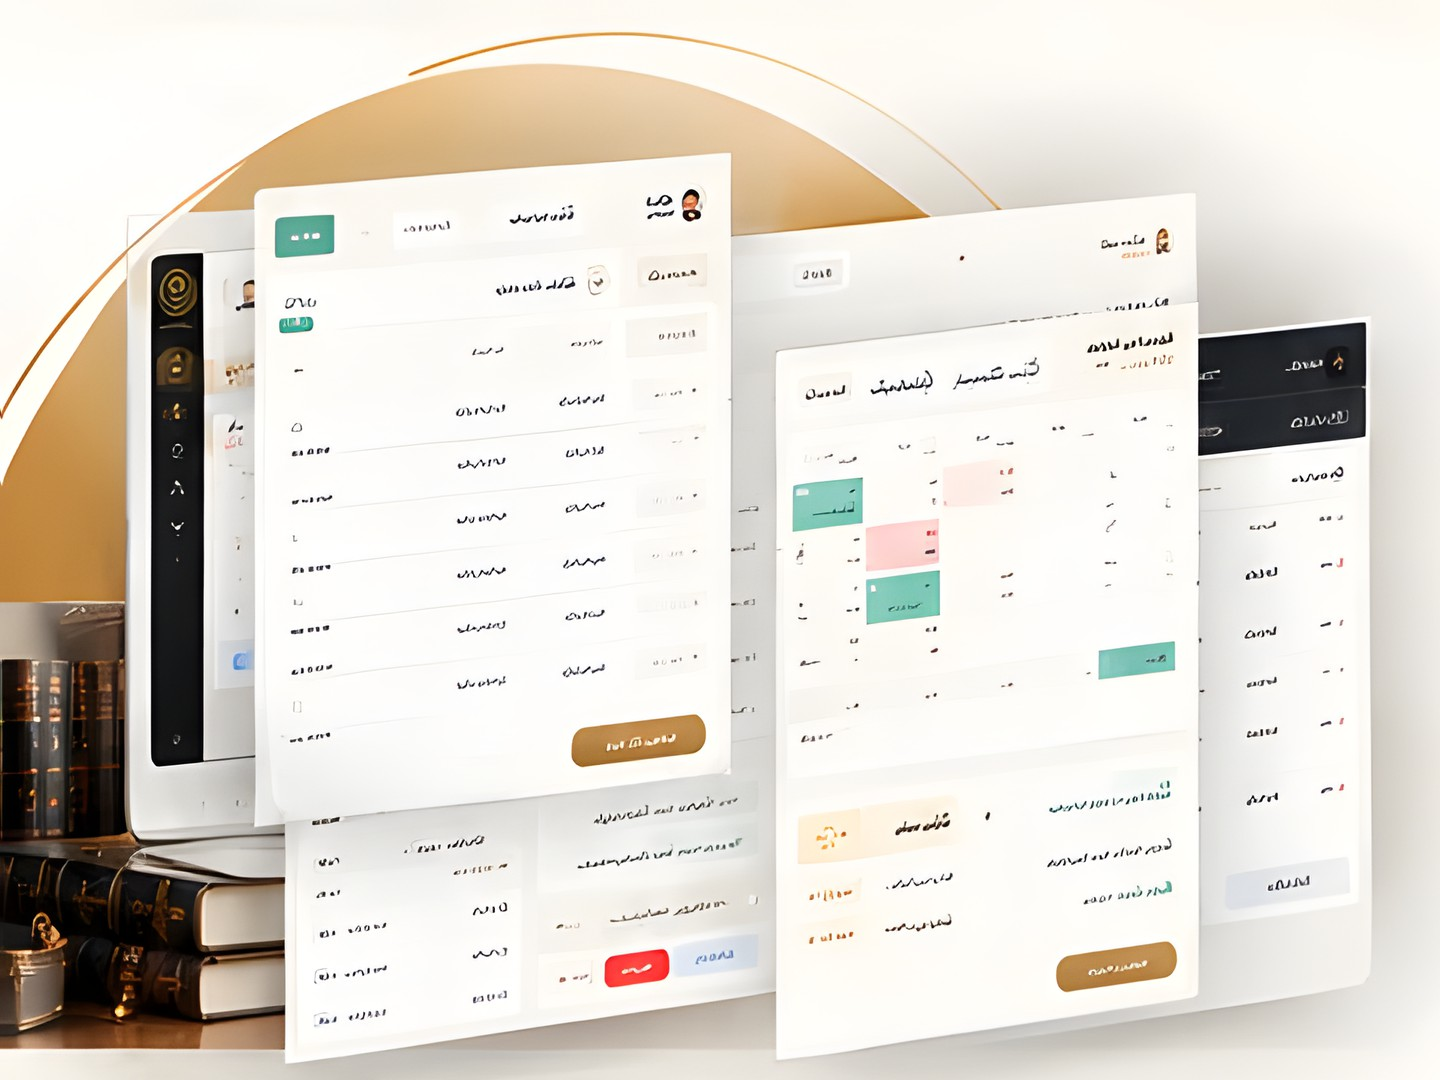
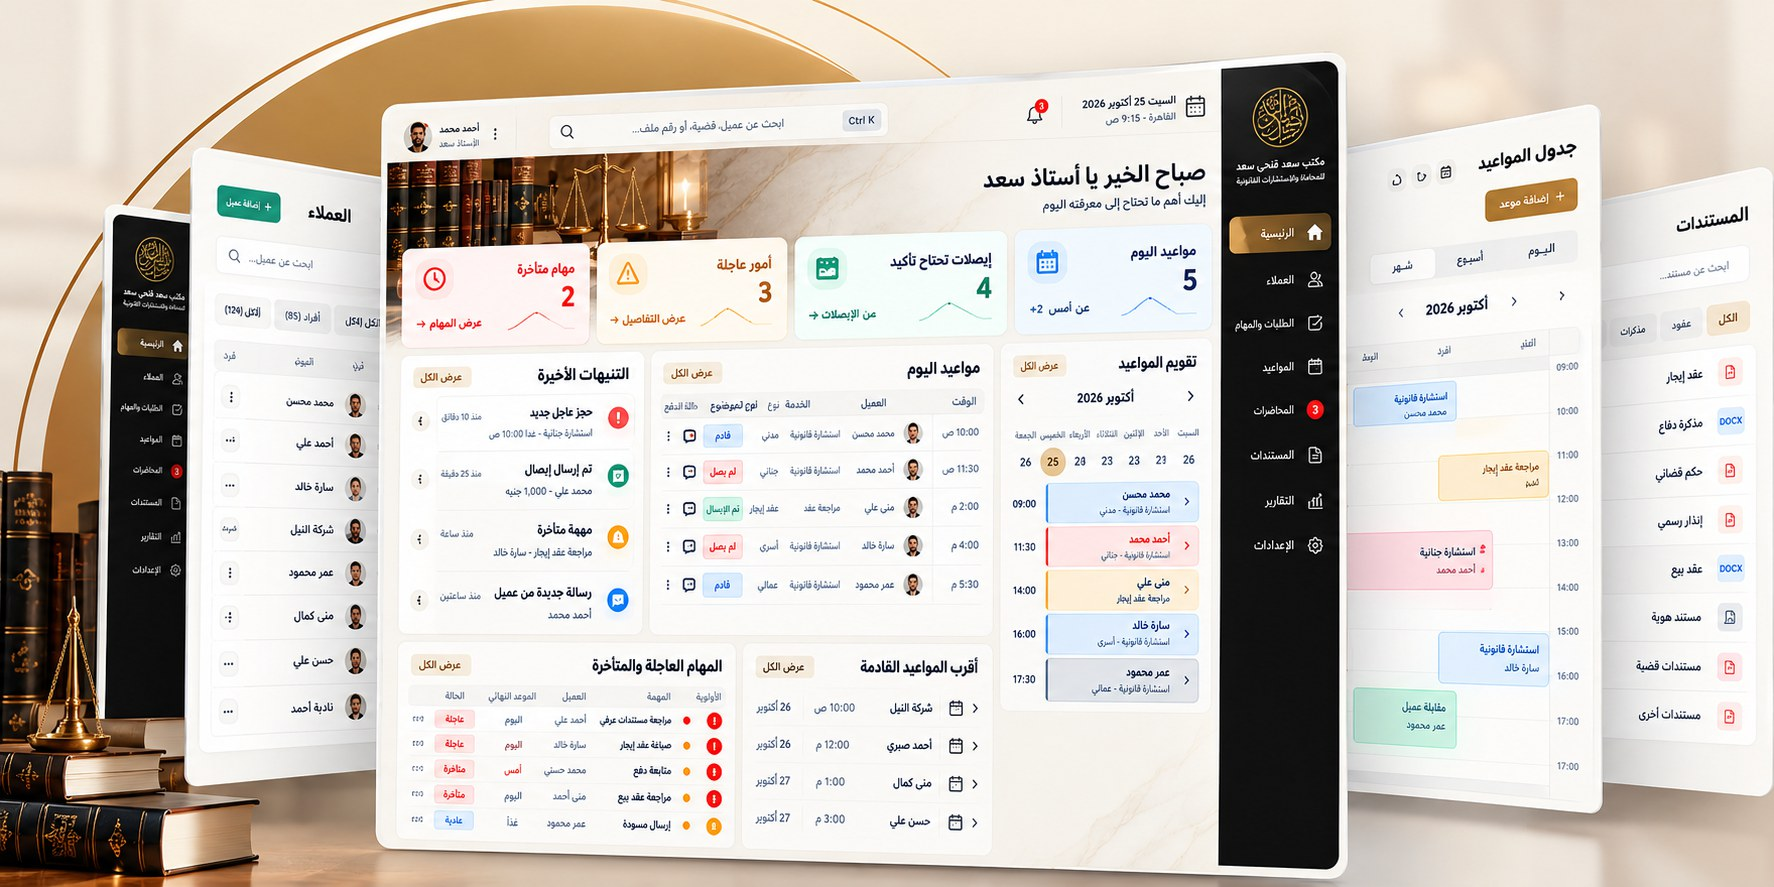
Landing page: a clear header that hides on scroll, the owner's screens picture, no side scrollbar
- The header is fixed over the page: clear on the hero at the top, frosted glass once the page moves; it slides
  away while scrolling down and comes back on the way up (never while its menu is open or the keyboard is on
  it). Without the script it stays frosted. The hero starts under it, its picture fading softly at the top.
- A link in the small screens' menu closes the menu.
- «مميزات النظام»: the owner's new screens picture (1774x887), whole, on the left from the window's edge,
  fading into the cream on its other sides.
- No scrollbar on the side (the owner's call); the page still scrolls by wheel, touch and keys.

diff --git a/web/public/landing/landing.css b/web/public/landing/landing.css
@@ -23,10 +23,13 @@
   --dark: #17140f;
   --shadow: 0 1px 2px rgb(30 26 20 / 0.04), 0 12px 30px rgb(120 92 50 / 0.10);
   --radius: 16px;
+  --top-h: 84px;
 }
 
 * { box-sizing: border-box; }
-html { scroll-behavior: smooth; scroll-padding-top: 90px; }
+/* no scrollbar on the side (the owner's call, 2026-10-30): the page still scrolls by wheel, touch and keys */
+html { scroll-behavior: smooth; scroll-padding-top: 90px; scrollbar-width: none; }
+html::-webkit-scrollbar { display: none; }
 body { margin: 0; overflow-x: clip; background: var(--page); color: var(--ink); font: 400 16px/1.75 "Cairo", system-ui, sans-serif; -webkit-font-smoothing: antialiased; }
 img, svg { display: block; max-width: 100%; }
 a { color: inherit; text-decoration: none; }
@@ -56,8 +59,18 @@ svg .fill { fill: currentColor; stroke: none; }
 .btn-line:hover { background: var(--gold-tint); }
 
 /* ---------- header ---------- */
-.top { position: sticky; top: 0; z-index: 20; background: rgb(250 247 242 / .94); backdrop-filter: blur(10px); border-bottom: 1px solid var(--line); }
-.top-row { display: flex; align-items: center; gap: 24px; min-height: 84px; }
+/* Fixed over the page: clear on the hero at the top, frosted glass once the page moves (landing.js sets .at-top and
+   .hide); it slides away while scrolling down and comes back on the way up. Without the script: frosted, always. */
+.top {
+  position: fixed; top: 0; left: 0; right: 0; z-index: 20;
+  background: rgb(250 247 242 / .72); -webkit-backdrop-filter: blur(14px) saturate(1.4); backdrop-filter: blur(14px) saturate(1.4);
+  border-bottom: 1px solid rgb(236 228 214 / .85); box-shadow: 0 8px 24px rgb(60 45 20 / .06);
+}
+/* moves only after the first frame, so the page never opens on a fading header */
+.top.ready { transition: transform .35s ease, background-color .3s ease, border-color .3s ease, box-shadow .3s ease; }
+.top.at-top { background: transparent; -webkit-backdrop-filter: none; backdrop-filter: none; border-bottom-color: transparent; box-shadow: none; }
+.top.hide { transform: translateY(-100%); }
+.top-row { display: flex; align-items: center; gap: 24px; min-height: var(--top-h); }
 .brand { display: flex; align-items: center; gap: 12px; flex-shrink: 0; }
 .brand img { width: 58px; height: 58px; border-radius: 50%; }
 .brand strong { display: block; font-size: 19px; font-weight: 800; line-height: 1.35; }
@@ -72,14 +85,18 @@ svg .fill { fill: currentColor; stroke: none; }
 /* As the design: the picture (the room and the laptop) fills the right of the hero to the edge of the window and
    fades into the cream on its left; the text stands on the left. */
 .hero {
-  position: relative; overflow: hidden; min-height: clamp(500px, 38.5vw, 640px); padding: 0;
+  position: relative; overflow: hidden; min-height: clamp(500px, 38.5vw, 640px); padding: var(--top-h) 0 0;
   background:
     radial-gradient(700px 420px at 20% 35%, #fffdf9 0%, rgb(255 253 249 / 0) 70%),
     linear-gradient(90deg, #f7f1e7 0%, #faf6ef 40%, #efe4d3 100%);
 }
 .hero-bg {
-  position: absolute; top: 0; bottom: 0; right: 0; width: 60%; height: 100%; object-fit: cover; object-position: left center;
-  -webkit-mask-image: linear-gradient(to right, transparent 0%, #000 22%); mask-image: linear-gradient(to right, transparent 0%, #000 22%);
+  position: absolute; top: var(--top-h); right: 0; width: 60%; height: calc(100% - var(--top-h)); object-fit: cover; object-position: left center;
+  /* fades into the cream on its left, and softly under the clear header on its top */
+  -webkit-mask-image: linear-gradient(to right, transparent 0%, #000 22%), linear-gradient(to bottom, transparent 0, #000 56px);
+  -webkit-mask-composite: source-in;
+  mask-image: linear-gradient(to right, transparent 0%, #000 22%), linear-gradient(to bottom, transparent 0, #000 56px);
+  mask-composite: intersect;
 }
 .hero-row { position: relative; display: flex; align-items: center; min-height: inherit; padding-bottom: 64px; }
 .hero-text { width: 39%; margin-inline-start: auto; }
@@ -131,11 +148,15 @@ svg .fill { fill: currentColor; stroke: none; }
 .head p, .lead { margin-top: 4px; font-size: 17px; color: var(--ink-soft); }
 
 /* ---------- features ---------- */
-/* As the design: the screens picture fills the left of the section to the edge of the window. */
+/* The screens picture (the owner's, 2:1) stands on the left of the section from the edge of the window, whole, and
+   fades into the cream on its other three sides. */
 .features { position: relative; overflow: hidden; }
 .features-bg {
-  position: absolute; top: 0; bottom: 0; left: 0; width: 49%; height: 100%; object-fit: cover; object-position: right center;
-  -webkit-mask-image: linear-gradient(to left, transparent 0%, #000 12%); mask-image: linear-gradient(to left, transparent 0%, #000 12%);
+  position: absolute; top: 50%; left: 0; width: 52%; height: auto; transform: translateY(-50%);
+  -webkit-mask-image: linear-gradient(to left, transparent 0%, #000 9%), linear-gradient(to bottom, transparent 0%, #000 8%, #000 92%, transparent 100%);
+  -webkit-mask-composite: source-in;
+  mask-image: linear-gradient(to left, transparent 0%, #000 9%), linear-gradient(to bottom, transparent 0%, #000 8%, #000 92%, transparent 100%);
+  mask-composite: intersect;
 }
 .features-row { position: relative; display: flex; padding: 22px 0 22px; min-height: clamp(440px, 36vw, 575px); align-items: center; }
 .features-text { width: 50%; }
@@ -214,7 +235,7 @@ svg .fill { fill: currentColor; stroke: none; }
   .menu nav a:hover { background: var(--gold-tint); }
   .menu nav .btn { margin-top: 6px; }
   .cards { grid-template-columns: repeat(2, minmax(0, 1fr)); }
-  .features-bg { position: static; width: 100%; height: auto; max-width: 640px; margin-inline: auto; -webkit-mask-image: none; mask-image: none; }
+  .features-bg { position: static; width: 100%; height: auto; max-width: 860px; margin-inline: auto; transform: none; -webkit-mask-image: none; mask-image: none; }
   .features-row { min-height: 0; padding-top: 10px; }
   .features-text { width: 100%; }
   .hero-text { width: 50%; }
@@ -225,7 +246,7 @@ svg .fill { fill: currentColor; stroke: none; }
   .foot-brand { justify-content: flex-start; }
 }
 @media (max-width: 900px) {
-  .hero { min-height: 0; padding: 0 0 90px; }
+  .hero { min-height: 0; padding: var(--top-h) 0 90px; }
   .hero-bg { position: static; width: 100%; height: auto; -webkit-mask-image: none; mask-image: none; }
   .hero-row { min-height: 0; padding: 28px 0 0; }
   .hero-text { width: 100%; }
@@ -238,7 +259,8 @@ svg .fill { fill: currentColor; stroke: none; }
 }
 @media (max-width: 620px) {
   body { font-size: 15.5px; }
-  .top-row { min-height: 72px; gap: 12px; }
+  :root { --top-h: 72px; }
+  .top-row { gap: 12px; }
   .brand img { width: 46px; height: 46px; }
   .brand strong { font-size: 16px; }
   .brand small { font-size: 12.5px; }
@@ -255,6 +277,6 @@ svg .fill { fill: currentColor; stroke: none; }
 }
 @media (prefers-reduced-motion: reduce) {
   html { scroll-behavior: auto; }
-  .btn { transition: none; }
+  .btn, .top.ready { transition: none; }
   .btn:hover { transform: none; }
 }

diff --git a/web/public/landing/landing.js b/web/public/landing/landing.js
@@ -1,5 +1,28 @@
-// The screens' arrows and dots (the landing page's only script; the page works without it, the row scrolls by hand).
+// The landing page's only script; the page works without it (the header stays frosted, the row scrolls by hand).
 document.addEventListener("DOMContentLoaded", () => {
+  // The header: clear on the hero at the top, frosted below it; it slides away while scrolling down and comes back
+  // on the way up (never while its menu is open or the keyboard is on one of its links).
+  const top = document.querySelector(".top");
+  const menu = top?.querySelector(".menu");
+  if (top) {
+    let last = window.scrollY;
+    const place = () => {
+      const y = window.scrollY;
+      top.classList.toggle("at-top", y < 8);
+      if (Math.abs(y - last) < 6) return;
+      const down = y > last && y > top.offsetHeight;
+      top.classList.toggle("hide", down && !menu?.open && !top.querySelector(":focus-visible"));
+      last = y;
+    };
+    window.addEventListener("scroll", place, { passive: true });
+    top.addEventListener("focusin", () => top.classList.remove("hide"));
+    // a link in the small screens' menu closes it
+    menu?.addEventListener("click", (e) => { if (e.target.closest("a")) menu.open = false; });
+    place();
+    requestAnimationFrame(() => requestAnimationFrame(() => top.classList.add("ready")));
+  }
+
+  // The screens' arrows and dots.
   const track = document.querySelector(".track");
   const dots = [...document.querySelectorAll(".dots span")];
   if (!track) return;

diff --git a/web/public/landing/index.html b/web/public/landing/index.html
@@ -97,7 +97,7 @@
 
     <!-- ================= features ================= -->
     <section class="features" id="features">
-      <img class="features-bg" src="img/features.jpg" alt="شاشات من النظام: قائمة العملاء، والتقويم، وطلب جديد" width="480" height="360" loading="lazy">
+      <img class="features-bg" src="img/features.jpg" alt="شاشات من النظام: الرئيسية، والعملاء، وجدول المواعيد، والمستندات" width="1774" height="887" loading="lazy">
       <div class="wrap features-row">
       <div class="features-text">
         <span class="kicker">مميزات النظام</span>
